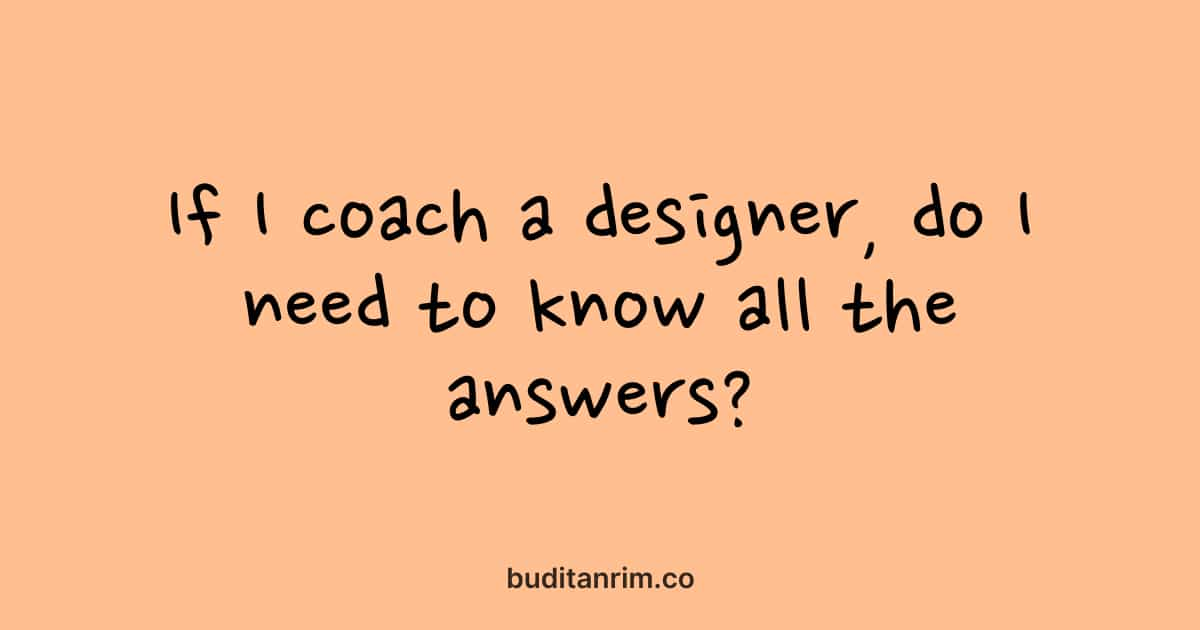
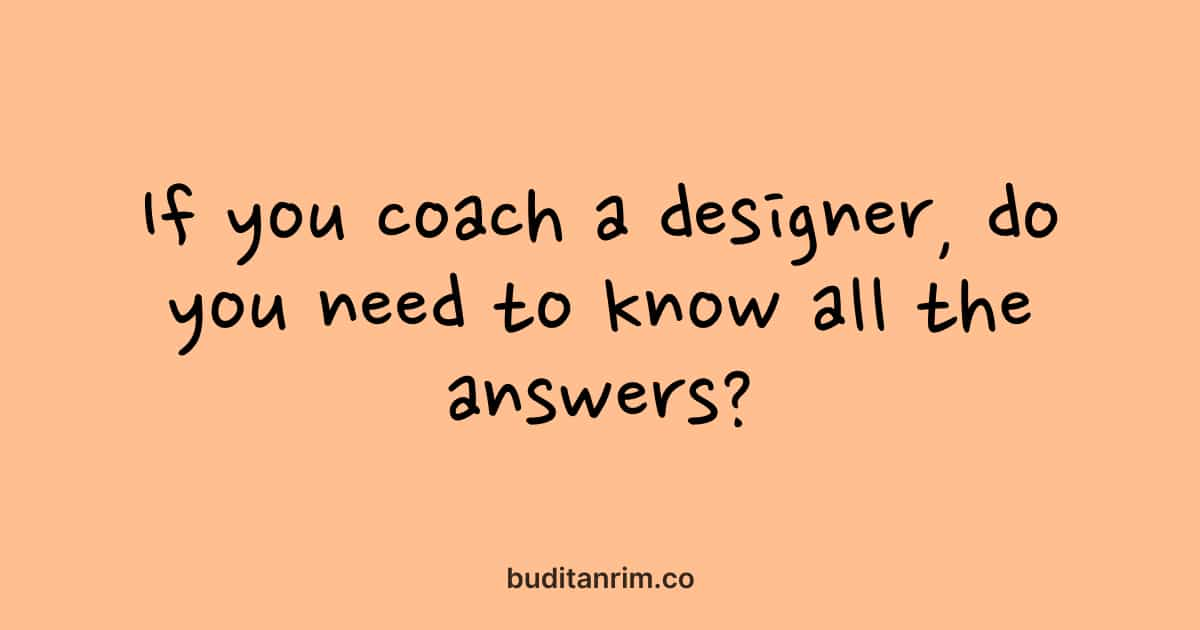
update

Changed region(s): [[0.1233, 0.2714, 0.8942, 0.573]]

diff --git a/_posts/2021-03-16-should-coach-know-all.md b/_posts/2021-03-16-should-coach-know-all.md
@@ -1,6 +1,6 @@
 ---
 layout: post
-title: "If I coach a designer, do I need to know all the answers?"
+title: "If you coach a designer, do you need to know all the answers?"
 punchline: true
 description: "Coaching is a generous act. But, what if you don't always have the answers?"
 date: 2021-03-16 07:17:00 +0700
@@ -9,12 +9,12 @@ tags: coach
 author: "Budi Tanrim"
 
 image:
- path: /img/seo/coaching-know-all.jpg
+ path: /img/seo/coach-know-all.jpg
  height: 630
  width: 1200
 gif: false
 twitter-seo: 
- - "seo/coaching-know-all.jpg"
+ - "seo/coach-know-all.jpg"
 ---
 
 The more senior you become, the more opportunity for you to coach junior designers. Coaching is a generous act. You help others to grow. But for someone who do it for the first time, it can grow the insecurity.
